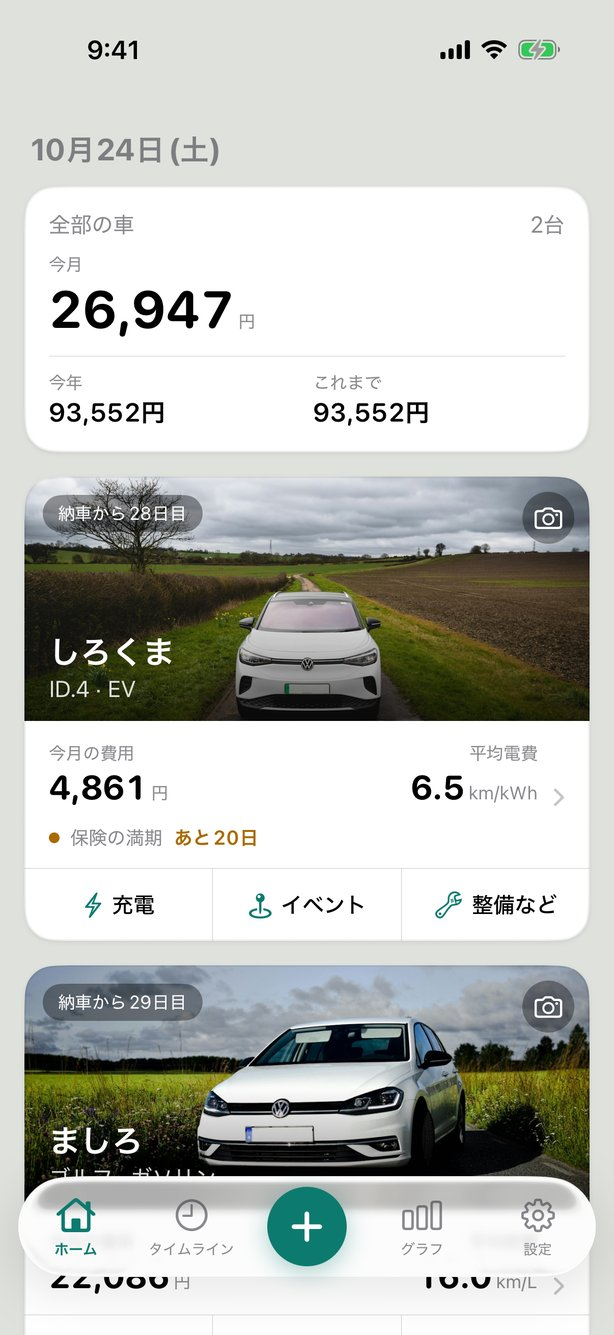
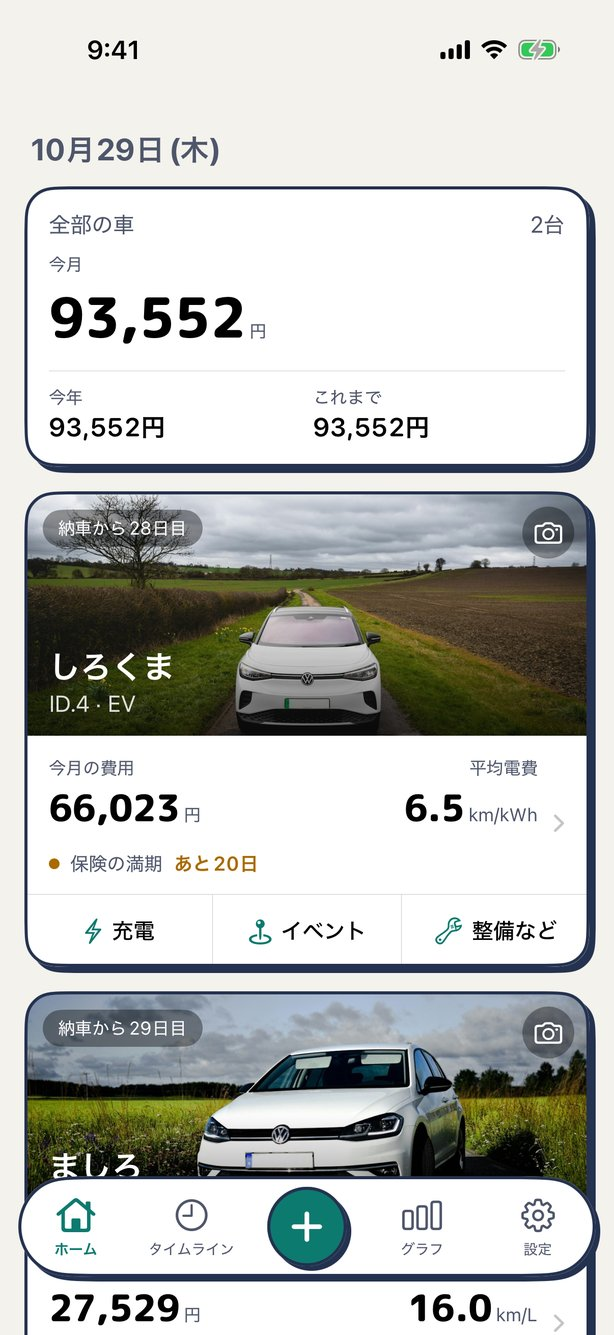
Roadbook の紹介ページの画面とカードの画像を、1.2 のポップな見た目に

diff --git a/apps/roadbook/index.html b/apps/roadbook/index.html
@@ -11,7 +11,7 @@
 <meta property="og:title" content="Roadbook — 給油も整備もお出かけも、1冊に">
 <meta property="og:description" content="納車の日からの歩みを1本のタイムラインに。燃費・電費・維持費の記録アプリ。広告なし、1台なら無料。">
 <meta property="og:locale" content="ja_JP">
-<meta property="og:image" content="https://gekisoba.com/apps/roadbook/og.png">
+<meta property="og:image" content="https://gekisoba.com/apps/roadbook/og.png?v=2">
 <meta property="og:image:width" content="1200">
 <meta property="og:image:height" content="630">
 <meta property="og:image:alt" content="Roadbook のアイコンとタイムラインの画面。給油も整備もお出かけも、1冊に">
@@ -64,10 +64,10 @@
     <div class="wrap">
       <div class="section-head"><h2>画面</h2></div>
       <div class="shots">
-        <img src="../../assets/screenshots/roadbook/1.jpg?v=1" alt="タイムライン。給油・充電・洗車・お出かけが写真や節目といっしょに並ぶ" width="614" height="1335" loading="lazy">
-        <img src="../../assets/screenshots/roadbook/2.jpg?v=1" alt="ホーム。車ごとのカードに今月の費用と燃費・電費、記録のボタン" width="614" height="1335" loading="lazy">
-        <img src="../../assets/screenshots/roadbook/3.jpg?v=1" alt="充電の記録。充電前後の残量から充電量と料金を計算" width="614" height="1335" loading="lazy">
-        <img src="../../assets/screenshots/roadbook/4.jpg?v=1" alt="グラフ。ガソリン車だったらいくらか、電費の推移" width="614" height="1335" loading="lazy">
+        <img src="../../assets/screenshots/roadbook/1.jpg?v=2" alt="タイムライン。給油・充電・洗車・お出かけが写真や節目といっしょに並ぶ" width="614" height="1335" loading="lazy">
+        <img src="../../assets/screenshots/roadbook/2.jpg?v=2" alt="ホーム。車ごとのカードに今月の費用と燃費・電費、記録のボタン" width="614" height="1335" loading="lazy">
+        <img src="../../assets/screenshots/roadbook/3.jpg?v=2" alt="充電の記録。充電前後の残量から充電量と料金を計算" width="614" height="1335" loading="lazy">
+        <img src="../../assets/screenshots/roadbook/4.jpg?v=2" alt="グラフ。ガソリン車だったらいくらか、電費の推移" width="614" height="1335" loading="lazy">
       </div>
     </div>
   </section>
